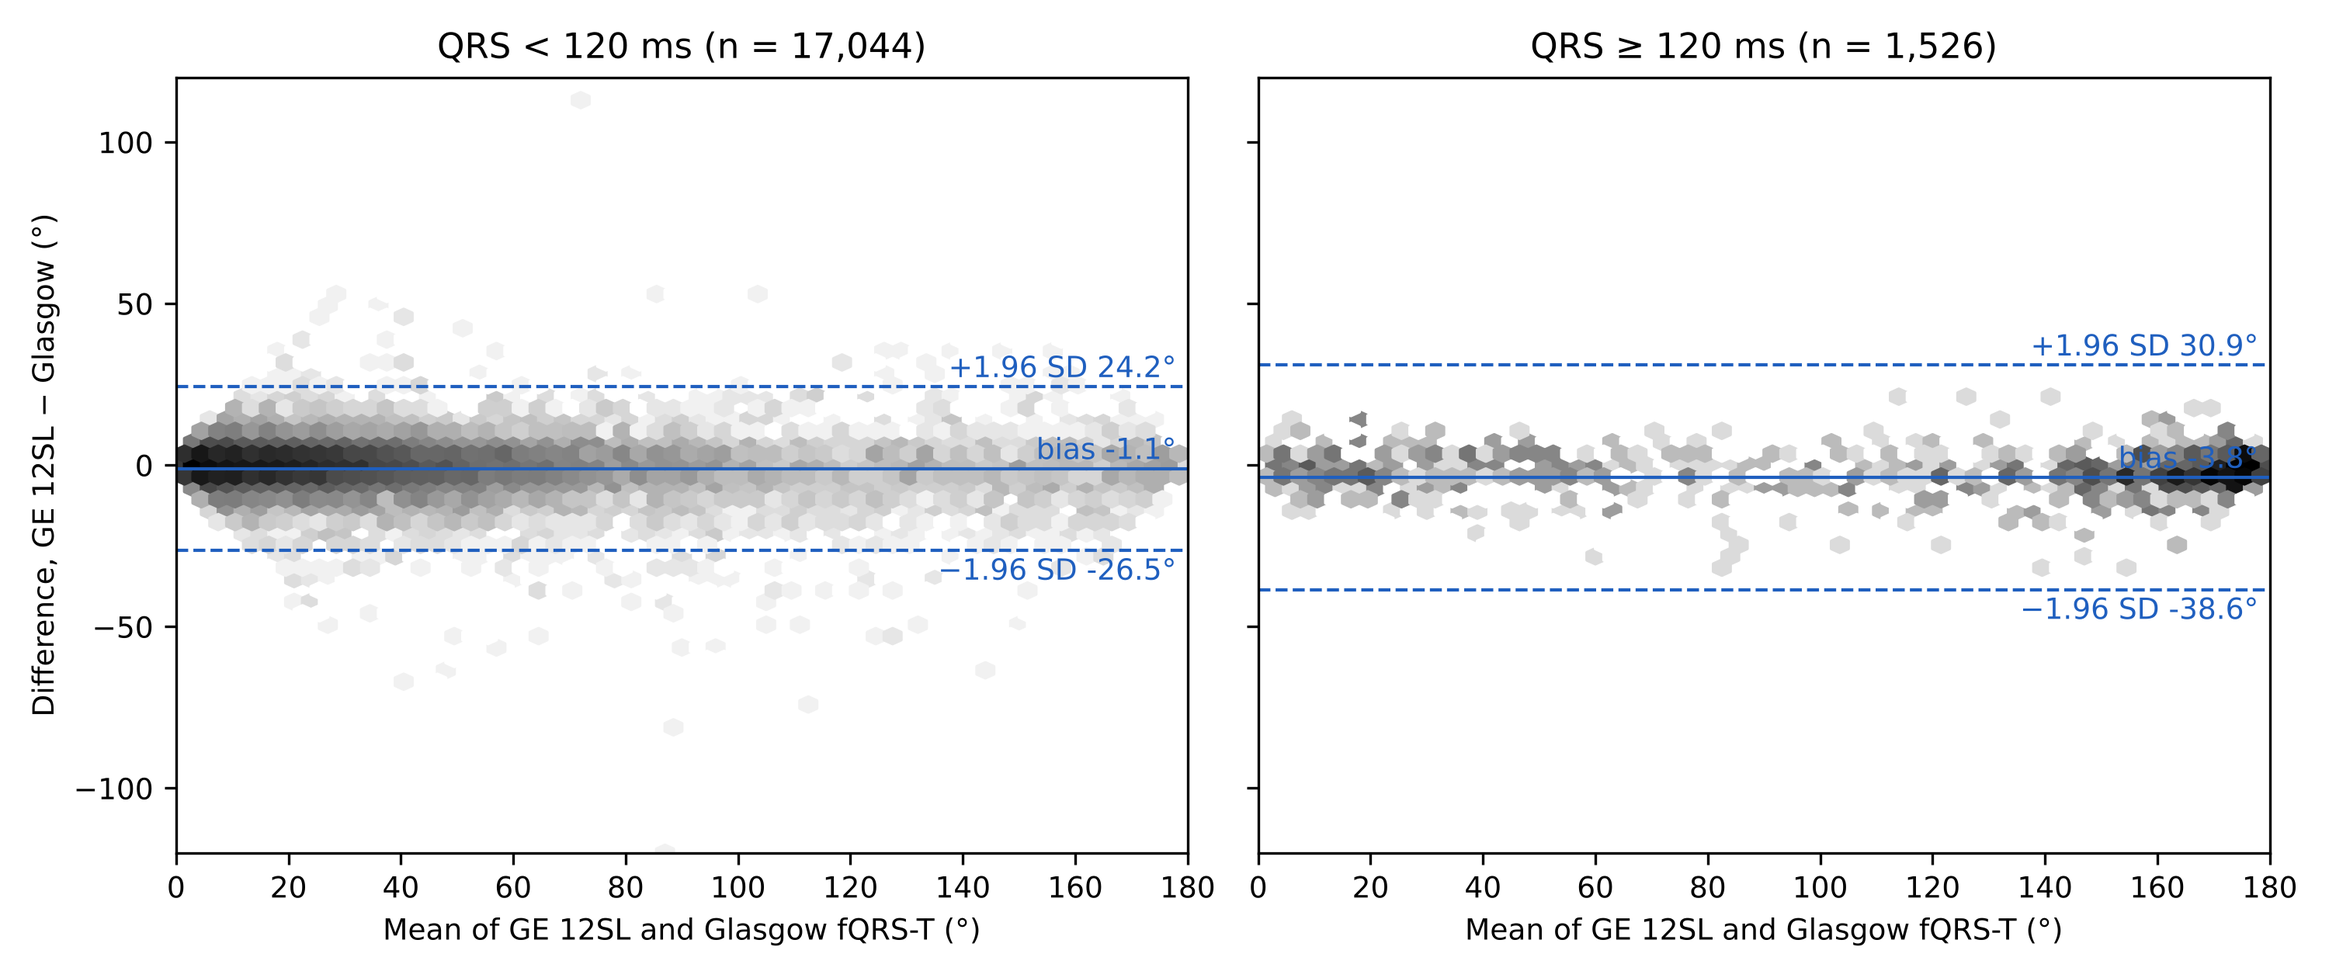
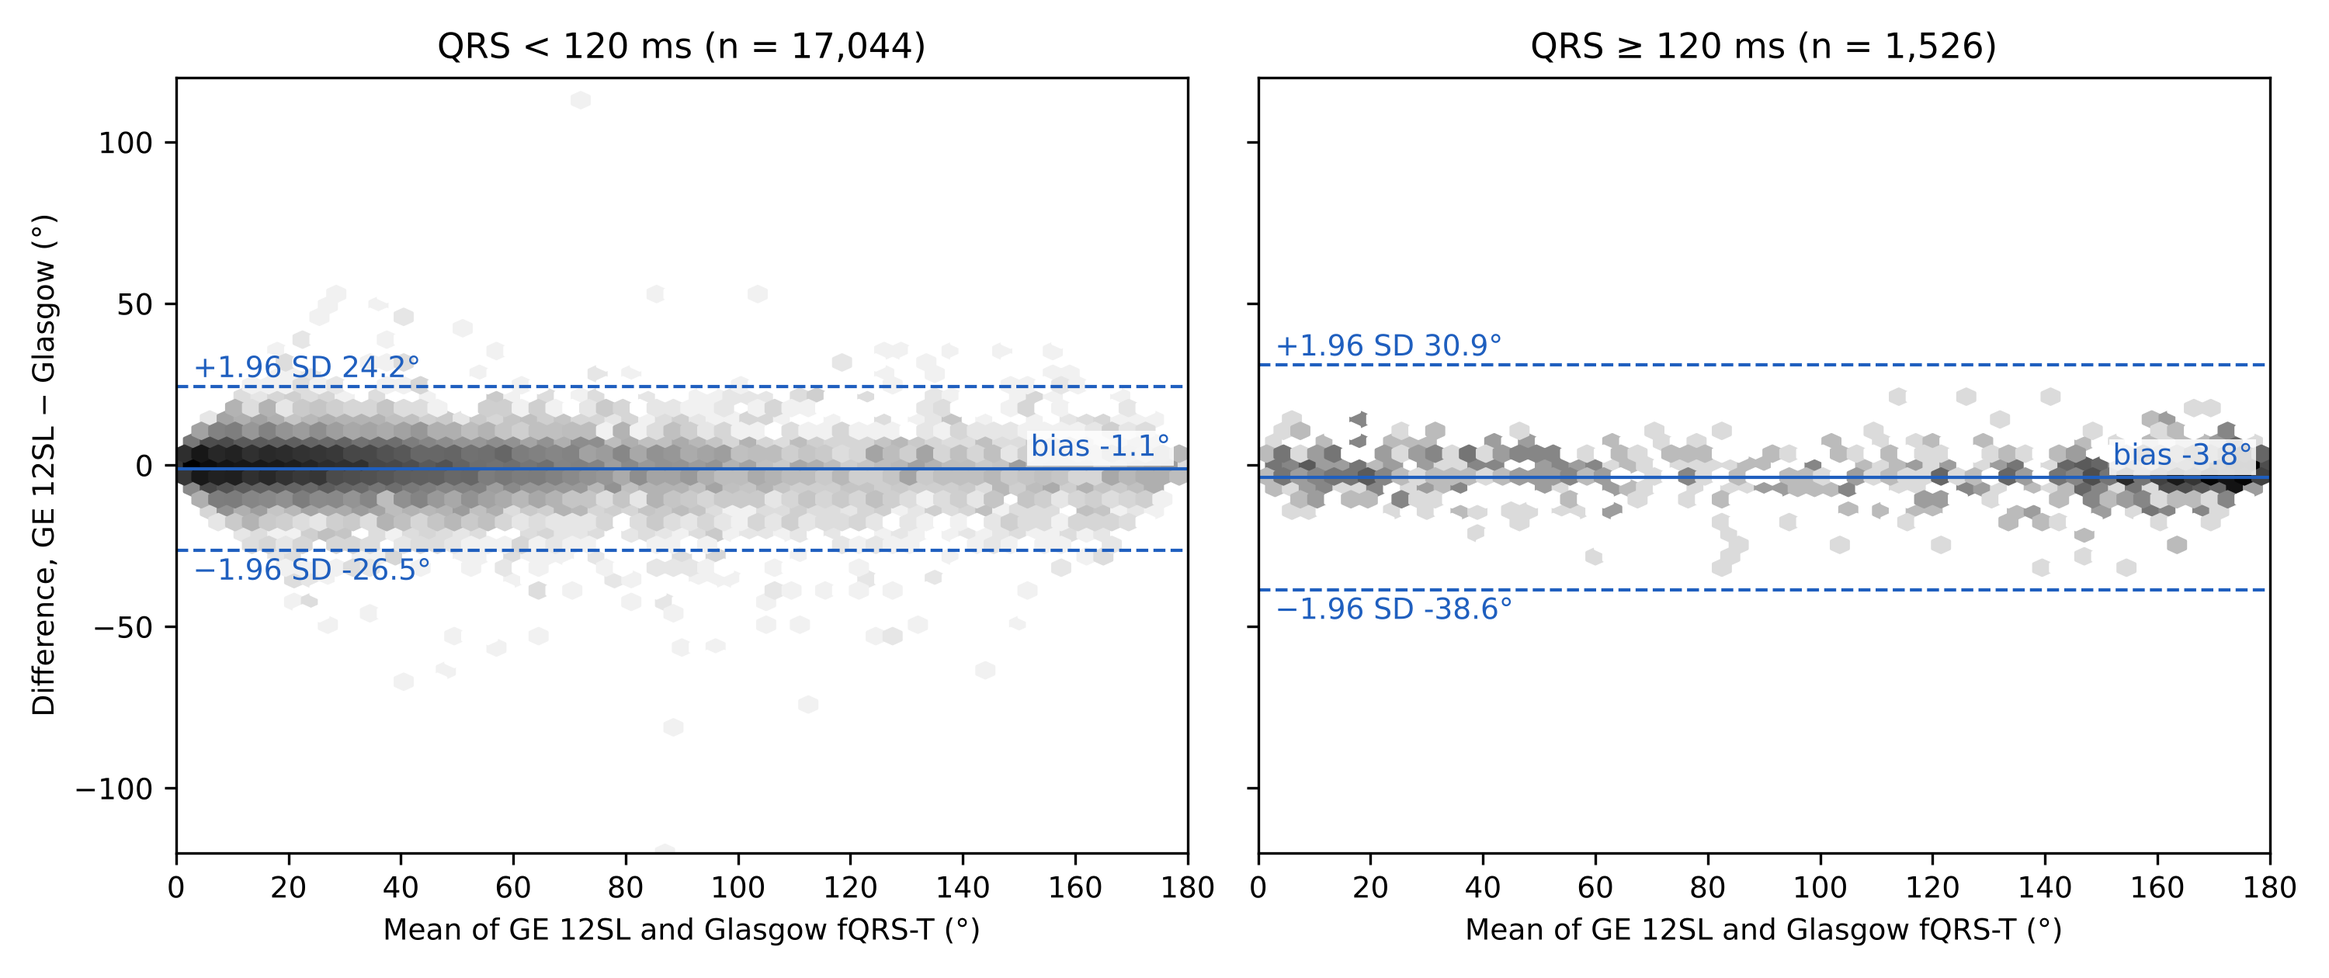
Add reference-limit figure and manuscript table builder; tidy Bland-Altman labels
Claude-Session: https://claude.ai/code/session_01AKCtRtYWpcoA2c2RQM2yxA

diff --git a/scripts/02_make_manuscript_tables.py b/scripts/02_make_manuscript_tables.py
@@ -1,0 +1,121 @@
+"""Builds the manuscript tables (markdown) directly from the result CSVs.
+Usage: python3 -I make_tables.py <results_dir> <out_md>"""
+import sys, re, pandas as pd
+
+O, OUT = sys.argv[1], sys.argv[2]
+
+
+def nums(s):
+    s = re.sub(r"np\.float64\(", "", str(s))
+    return [float(x) for x in re.findall(r"-?\d+(?:\.\d+)?(?:e-?\d+)?", s)]
+
+
+def neg(x, d=1):
+    """Format with a true minus sign."""
+    return f"{x:.{d}f}".replace("-", "−")
+
+
+f1 = lambda v: f"{v:.1f}"
+out = []
+
+# ---- Table 1
+t1 = pd.read_csv(f"{O}/table1_cohort.csv", index_col=0)
+cols = ["All", "NORM only", "Any pathology"]
+row = lambda lbl, fn: "| " + lbl + " | " + " | ".join(fn(t1.loc[c]) for c in cols) + " |"
+out += ["**Table 1.** Characteristics of the primary cohort (first eligible ECG per patient).", "",
+        "| Characteristic | All | Normal ECG only | Any abnormality |", "|---|---|---|---|",
+        row("n", lambda r: f"{int(r.n):,}"),
+        row("Age, years, median (IQR)*", lambda r: f"{r.age_median:.0f} ({nums(r.age_iqr)[0]:.0f}–{nums(r.age_iqr)[1]:.0f})"),
+        row("Women, %", lambda r: f1(r.female_pct)),
+        row("Report validated by a second cardiologist, %", lambda r: f1(r.validated_pct)),
+        row("Myocardial infarction (MI), %", lambda r: f1(r.MI_pct)),
+        row("ST/T change (STTC), %", lambda r: f1(r.STTC_pct)),
+        row("Hypertrophy (HYP), %", lambda r: f1(r.HYP_pct)),
+        row("Conduction disturbance (CD), %", lambda r: f1(r.CD_pct)),
+        row("Atrial fibrillation or flutter, %", lambda r: f1(r.afib_pct)),
+        row("Complete bundle branch block, %", lambda r: f1(r.bbb_pct)),
+        row("Any signal quality flag, %", lambda r: f1(r.noise_pct)),
+        row("QRS duration, ms, median†", lambda r: f"{r.qrsd_ge_median:.0f}"),
+        row("Heart rate, beats/min, median†", lambda r: f"{r.hr_ge_median:.0f}"),
+        row("QTc, ms, median†", lambda r: f"{r.qtc_ge_median:.0f}"),
+        "", "*Ages above 89 years are masked in PTB-XL and were excluded from age summaries. †12SL measurements. "
+        "Superclasses are not mutually exclusive; 71 ECGs had no diagnostic superclass.", ""]
+
+# ---- Table 2
+t2 = pd.read_csv(f"{O}/table2_fqrst_agreement.csv", index_col=0)
+names = {"Primary (first ECG per patient)": "Primary cohort", "QRS < 120 ms": "QRS < 120 ms", "QRS >= 120 ms": "QRS ≥ 120 ms",
+         "Sinus/no AF": "No AF/flutter", "AF/flutter": "AF/flutter", "No noise flags": "No quality flag",
+         "Noise flagged": "Quality flag present", "Human-validated labels": "Validated reports",
+         "All ECGs (incl. repeats)": "All ECGs incl. repeats", "Limb low voltage (GE)": "Limb-lead low voltage*",
+         "Normal voltage (GE)": "Normal limb voltage*"}
+out += ["**Table 2.** Agreement between GE 12SL and Glasgow (Uni-G) on the frontal QRS-T angle.", "",
+        "| Group | n | Bias, ° (95% CI) | 95% LoA, ° | Difference > 30°, % | CCC | Weighted κ, 3 categories | Reclassified, % | κ at 90° | AC1 at 90° |",
+        "|---|---|---|---|---|---|---|---|---|---|"]
+for k, v in names.items():
+    r = t2.loc[k]; ci = nums(r.bias_ci); lo = nums(r.loa)
+    out.append(f"| {v} | {int(r.n):,} | {neg(r.bias)} ({neg(ci[0])} to {neg(ci[1])}) | {neg(lo[0])} to {neg(lo[1])} | "
+               f"{r.pct_absdiff_gt30:.1f} | {r.ccc:.2f} | {r.wkappa3:.2f} | {r.reclass_pct:.1f} | {r.gt90_kappa:.2f} | {r.gt90_ac1:.2f} |")
+out += ["", "Bias = mean of 12SL minus Uni-G. Difference > 30° = absolute between-program difference. Categories: ≤45°, >45° to ≤90°, >90°. "
+        "LoA, limits of agreement; CCC, Lin's concordance correlation coefficient; AF, atrial fibrillation. *By 12SL.", ""]
+
+# ---- Table 3
+t3 = pd.read_csv(f"{O}/table3_low_voltage.csv")
+dn = {"lv_limb": "Limb leads (all six < 0.5 mV)", "lv_prec": "Precordial leads (all six < 1.0 mV)",
+      "lv_comb": "Limb and precordial", "lv_any": "Limb or precordial", "12SL LOWV statement": "12SL LOWV statement"}
+cmp = {"GE vs Glasgow": "12SL vs Uni-G", "GE vs cardiologist LVOLT": "12SL vs LVOLT", "GL vs cardiologist LVOLT": "Uni-G vs LVOLT",
+       "12SL statement vs cardiologist LVOLT": "Statement vs LVOLT", "12SL statement vs GE limb measurement": "Statement vs 12SL limb measurement"}
+out += ["**Table 3.** Low QRS voltage: agreement between programs and with the cardiologists' LVOLT statement (n = 18,570; LVOLT in 162).", "",
+        "| Definition | Comparison | Prevalence, % | κ | AC1 | Sensitivity, % (95% CI) | PPV, % (95% CI) |", "|---|---|---|---|---|---|---|"]
+for _, r in t3.iterrows():
+    prev = f"{r.prev_ge:.2f} / {r.prev_gl:.2f}" if pd.notna(r.prev_ge) else "–"
+    if isinstance(r.get("sens"), str):
+        s, pv = nums(r.sens), nums(r.ppv)
+        sens = f"{100*s[0]:.1f} ({100*s[1]:.1f}–{100*s[2]:.1f})"; ppv = f"{100*pv[0]:.1f} ({100*pv[1]:.1f}–{100*pv[2]:.1f})"
+    else:
+        sens = ppv = "–"
+    out.append(f"| {dn[r['def']]} | {cmp[r.comparison]} | {prev} | {r.kappa:.2f} | {r.ac1:.2f} | {sens} | {ppv} |")
+out += ["", "Prevalence is shown as 12SL / Uni-G for program comparisons. Sensitivity and PPV use the LVOLT statement as reference. "
+        "AC1, Gwet's first-order agreement coefficient; PPV, positive predictive value.", ""]
+
+# ---- Table 4 (ROC)
+t5 = pd.read_csv(f"{O}/table5_roc.csv")
+out += ["**Table 4.** Diagnostic value of the frontal QRS-T angle against ECGs labelled only as normal (n = 8,286).", "",
+        "| Comparison | Cases, n | AUC 12SL (95% CI) | AUC Uni-G (95% CI) | P (DeLong) | Youden cut-off, ° | Sens/spec at Youden, % | Sens/spec at 90°, % |",
+        "|---|---|---|---|---|---|---|---|"]
+for _, r in t5.iterrows():
+    a, b, p = nums(r.ci_ge), nums(r.ci_gl), r.p_delong
+    ps = "< 0.001" if p < 0.001 else f"{p:.3f}"
+    out.append(f"| {r.comparison.replace(' vs NORM only', '')} | {int(r.n_cases):,} | {r.auc_ge:.3f} ({a[0]:.3f}–{a[1]:.3f}) | "
+               f"{r.auc_gl:.3f} ({b[0]:.3f}–{b[1]:.3f}) | {ps} | {r.youden_thr_ge:.0f} | {100*r.sens_at_youden:.1f} / {100*r.spec_at_youden:.1f} | "
+               f"{100*r.sens_at_90_ge:.1f} / {100*r.spec_at_90_ge:.1f} |")
+out += ["", "Cut-offs, sensitivity (sens) and specificity (spec) refer to 12SL. Any pathology = at least one abnormal diagnostic superclass.", ""]
+
+# ---- Table 5 (reference)
+t6 = pd.read_csv(f"{O}/table6_reference_values.csv")
+order = ["18-29", "30-39", "40-49", "50-59", "60-69", "70-79", ">=80", "all"]
+out += ["**Table 5.** Frontal QRS-T angle (°) in healthy adults by age group and sex: median (2.5th–97.5th percentile).", "",
+        "| Age, years | Sex | n | 12SL | Uni-G |", "|---|---|---|---|---|"]
+for a in order:
+    for sx in ["M", "F"]:
+        g = t6[(t6.age == a) & (t6.sex == sx) & (t6.alg == "GE")].iloc[0]
+        u = t6[(t6.age == a) & (t6.sex == sx) & (t6.alg == "GL")].iloc[0]
+        mark = "*" if bool(g.provisional_n_lt_120) else ""
+        al = {"all": "All ages", ">=80": "≥80"}.get(a, a.replace("-", "–"))
+        out.append(f"| {al} | {'Men' if sx == 'M' else 'Women'} | {int(g.n):,}{mark} | {g['median']:.0f} ({g['p2.5']:.0f}–{g['p97.5']:.0f}) | "
+                   f"{u['median']:.0f} ({u['p2.5']:.0f}–{u['p97.5']:.0f}) |")
+out += ["", "Healthy adults: age ≥ 18 years, ECG labelled only as normal, report validated by a second cardiologist, no atrial fibrillation or flutter "
+        "and no signal quality flag (n = 5,471). Nonparametric percentiles. *Below the CLSI EP28-A3c minimum of 120 per partition; provisional.", ""]
+
+# ---- Supplementary S1
+t4 = pd.read_csv(f"{O}/table4_discordance_predictors.csv", index_col=0)
+lab = {"age10": "Age (per 10 years)", "female": "Female sex", "qrsd10": "QRS duration (per 10 ms)", "hr10": "Heart rate (per 10 beats/min)",
+       "bbb": "Complete bundle branch block", "afib": "Atrial fibrillation or flutter", "lv_limb_ge": "Limb-lead low voltage",
+       "noise": "Any signal quality flag", "MI": "Myocardial infarction", "HYP": "Hypertrophy"}
+out += ["**Supplementary Table S1.** Predictors of a between-program difference in the frontal QRS-T angle above 30° "
+        "(multivariable logistic regression; 593 events among 18,324 ECGs).", "", "| Variable | OR (95% CI) | P |", "|---|---|---|"]
+for k, v in lab.items():
+    r = t4.loc[k]; ps = "< 0.001" if r.p < 0.001 else f"{r.p:.3f}"
+    out.append(f"| {v} | {r.OR:.2f} ({r.lo:.2f}–{r.hi:.2f}) | {ps} |")
+out.append("")
+open(OUT, "w", encoding="utf-8").write("\n".join(out))
+print("\n".join(out))

diff --git a/scripts/01_analysis_paper1.py b/scripts/01_analysis_paper1.py
@@ -229,9 +229,9 @@ for ax, (lab, sub) in zip(axs, [("QRS < 120 ms", x[x.qrsd_ge < 120]), ("QRS ≥ 
     b, s = d_.mean(), d_.std(ddof=1)
     for yv, ls in [(b, "-"), (b - 1.96 * s, "--"), (b + 1.96 * s, "--")]:
         ax.axhline(yv, color="#1f5fbf", ls=ls, lw=1)
-    ax.text(178, b + 1.96 * s + 3, f"+1.96 SD {b + 1.96 * s:.1f}°", ha="right", color="#1f5fbf")
-    ax.text(178, b - 1.96 * s - 9, f"−1.96 SD {b - 1.96 * s:.1f}°", ha="right", color="#1f5fbf")
-    ax.text(178, b + 3, f"bias {b:.1f}°", ha="right", color="#1f5fbf")
+    ax.text(3, b + 1.96 * s + 3, f"+1.96 SD {b + 1.96 * s:.1f}°", ha="left", color="#1f5fbf")
+    ax.text(3, b - 1.96 * s - 9, f"−1.96 SD {b - 1.96 * s:.1f}°", ha="left", color="#1f5fbf")
+    ax.text(177, b + 4, f"bias {b:.1f}°", ha="right", color="#1f5fbf", bbox=dict(fc="white", ec="none", pad=1, alpha=0.85))
     ax.set_title(f"{lab} (n = {len(sub):,})"); ax.set_xlabel("Mean of GE 12SL and Glasgow fQRS-T (°)"); ax.set_xlim(0, 180); ax.set_ylim(-120, 120)
 axs[0].set_ylabel("Difference, GE 12SL − Glasgow (°)")
 fig.tight_layout(); fig.savefig(f"{O}/fig1_bland_altman.png", dpi=300); plt.close(fig)
@@ -245,6 +245,25 @@ for ax, (name, c) in zip(axs, curves.items()):
     ax.set_xlabel("1 − specificity")
 axs[0].set_ylabel("Sensitivity"); axs[0].legend(frameon=False, loc="lower right")
 fig.tight_layout(); fig.savefig(f"{O}/fig2_roc.png", dpi=300); plt.close(fig)
+
+
+# Figure 3: reference limits by age group and sex
+r6 = T6[T6.age != "all"]
+order = ["18-29", "30-39", "40-49", "50-59", "60-69", "70-79", ">=80"]
+fig, ax = plt.subplots(figsize=(6.5, 4))
+for (alg, sx), col, ls, mk in [(("GE", "M"), "#1f5fbf", "-", "o"), (("GE", "F"), "#1f5fbf", "--", "s"),
+                               (("GL", "M"), "#888888", "-", "o"), (("GL", "F"), "#888888", "--", "s")]:
+    d = r6[(r6.alg == alg) & (r6.sex == sx)].set_index("age").reindex(order)
+    ax.plot(range(len(order)), d["p97.5"], color=col, ls=ls, marker=mk, ms=4, lw=1.2,
+            label=f"{'GE 12SL' if alg == 'GE' else 'Glasgow'}, {'men' if sx == 'M' else 'women'}")
+    prov = d.provisional_n_lt_120.fillna(False).values.astype(bool)
+    if prov.any():
+        ax.plot(np.arange(len(order))[prov], d["p97.5"].values[prov], ls="none", marker=mk, ms=7, mfc="white", mec=col)
+ax.axhline(90, color="#cc3333", lw=0.8, ls=":"); ax.text(6, 91.5, "90° cut-off", color="#cc3333", fontsize=8, ha="right")
+ax.set_xticks(range(len(order))); ax.set_xticklabels([o.replace(">=", "≥") for o in order])
+ax.set_xlabel("Age group (years)"); ax.set_ylabel("97.5th percentile of frontal QRS-T angle (°)")
+ax.set_ylim(40, 100); ax.legend(frameon=False, fontsize=8, loc="lower right")
+fig.tight_layout(); fig.savefig(f"{O}/fig3_reference_limits.png", dpi=300); plt.close(fig)
 
 # ---------------- dump ----------------
 def clean(o):

diff --git a/results/manuscript_tables.md b/results/manuscript_tables.md
@@ -1,0 +1,109 @@
+**Table 1.** Characteristics of the primary cohort (first eligible ECG per patient).
+
+| Characteristic | All | Normal ECG only | Any abnormality |
+|---|---|---|---|
+| n | 18,570 | 8,286 | 10,213 |
+| Age, years, median (IQR)* | 61 (49–72) | 53 (40–65) | 66 (57–75) |
+| Women, % | 49.1 | 55.2 | 44.2 |
+| Report validated by a second cardiologist, % | 76.8 | 83.7 | 71.3 |
+| Myocardial infarction (MI), % | 23.7 | 0.0 | 43.2 |
+| ST/T change (STTC), % | 23.0 | 0.0 | 41.9 |
+| Hypertrophy (HYP), % | 12.0 | 0.0 | 21.8 |
+| Conduction disturbance (CD), % | 22.0 | 0.0 | 39.9 |
+| Atrial fibrillation or flutter, % | 6.3 | 0.4 | 10.7 |
+| Complete bundle branch block, % | 4.6 | 0.0 | 8.4 |
+| Any signal quality flag, % | 22.1 | 21.0 | 23.0 |
+| QRS duration, ms, median† | 92 | 90 | 96 |
+| Heart rate, beats/min, median† | 71 | 69 | 73 |
+| QTc, ms, median† | 429 | 422 | 437 |
+
+*Ages above 89 years are masked in PTB-XL and were excluded from age summaries. †12SL measurements. Superclasses are not mutually exclusive; 71 ECGs had no diagnostic superclass.
+
+**Table 2.** Agreement between GE 12SL and Glasgow (Uni-G) on the frontal QRS-T angle.
+
+| Group | n | Bias, ° (95% CI) | 95% LoA, ° | Difference > 30°, % | CCC | Weighted κ, 3 categories | Reclassified, % | κ at 90° | AC1 at 90° |
+|---|---|---|---|---|---|---|---|---|---|
+| Primary cohort | 18,570 | −1.3 (−1.5 to −1.1) | −27.6 to 24.9 | 3.3 | 0.96 | 0.89 | 8.2 | 0.89 | 0.95 |
+| QRS < 120 ms | 17,044 | −1.1 (−1.3 to −0.9) | −26.5 to 24.2 | 3.1 | 0.95 | 0.88 | 8.1 | 0.88 | 0.96 |
+| QRS ≥ 120 ms | 1,526 | −3.8 (−4.7 to −2.9) | −38.6 to 30.9 | 5.8 | 0.95 | 0.88 | 8.8 | 0.90 | 0.90 |
+| No AF/flutter | 17,398 | −1.2 (−1.4 to −1.0) | −25.5 to 23.1 | 2.7 | 0.96 | 0.89 | 7.7 | 0.89 | 0.96 |
+| AF/flutter | 1,172 | −3.4 (−4.8 to −2.3) | −49.9 to 43.1 | 12.8 | 0.92 | 0.82 | 15.0 | 0.82 | 0.82 |
+| No quality flag | 14,462 | −1.3 (−1.5 to −1.1) | −26.3 to 23.8 | 2.9 | 0.96 | 0.89 | 7.9 | 0.90 | 0.96 |
+| Quality flag present | 4,108 | −1.5 (−2.0 to −1.0) | −31.7 to 28.7 | 4.6 | 0.95 | 0.87 | 9.2 | 0.87 | 0.94 |
+| Validated reports | 14,256 | −1.0 (−1.2 to −0.8) | −26.3 to 24.3 | 3.0 | 0.96 | 0.89 | 7.9 | 0.89 | 0.96 |
+| All ECGs incl. repeats | 21,390 | −1.4 (−1.5 to −1.2) | −29.4 to 26.6 | 3.6 | 0.96 | 0.89 | 8.5 | 0.89 | 0.95 |
+| Limb-lead low voltage* | 240 | −0.7 (−3.6 to 2.7) | −50.8 to 49.4 | 11.7 | 0.88 | 0.81 | 15.4 | 0.81 | 0.85 |
+| Normal limb voltage* | 18,330 | −1.3 (−1.6 to −1.2) | −27.2 to 24.5 | 3.2 | 0.96 | 0.89 | 8.1 | 0.89 | 0.96 |
+
+Bias = mean of 12SL minus Uni-G. Difference > 30° = absolute between-program difference. Categories: ≤45°, >45° to ≤90°, >90°. LoA, limits of agreement; CCC, Lin's concordance correlation coefficient; AF, atrial fibrillation. *By 12SL.
+
+**Table 3.** Low QRS voltage: agreement between programs and with the cardiologists' LVOLT statement (n = 18,570; LVOLT in 162).
+
+| Definition | Comparison | Prevalence, % | κ | AC1 | Sensitivity, % (95% CI) | PPV, % (95% CI) |
+|---|---|---|---|---|---|---|
+| Limb leads (all six < 0.5 mV) | 12SL vs Uni-G | 1.29 / 1.22 | 0.92 | 1.00 | – | – |
+| Limb leads (all six < 0.5 mV) | 12SL vs LVOLT | – | 0.14 | 0.98 | 17.9 (12.8–24.5) | 12.1 (8.5–16.8) |
+| Limb leads (all six < 0.5 mV) | Uni-G vs LVOLT | – | 0.14 | 0.98 | 17.3 (12.2–23.8) | 12.3 (8.7–17.2) |
+| Precordial leads (all six < 1.0 mV) | 12SL vs Uni-G | 0.87 / 0.83 | 0.90 | 1.00 | – | – |
+| Precordial leads (all six < 1.0 mV) | 12SL vs LVOLT | – | 0.02 | 0.98 | 3.1 (1.3–7.0) | 3.1 (1.3–7.1) |
+| Precordial leads (all six < 1.0 mV) | Uni-G vs LVOLT | – | 0.02 | 0.98 | 2.5 (1.0–6.2) | 2.6 (1.0–6.4) |
+| Limb and precordial | 12SL vs Uni-G | 0.06 / 0.06 | 0.78 | 1.00 | – | – |
+| Limb and precordial | 12SL vs LVOLT | – | 0.02 | 0.99 | 1.2 (0.3–4.4) | 16.7 (4.7–44.8) |
+| Limb and precordial | Uni-G vs LVOLT | – | 0.02 | 0.99 | 1.2 (0.3–4.4) | 18.2 (5.1–47.7) |
+| Limb or precordial | 12SL vs Uni-G | 2.09 / 2.00 | 0.92 | 1.00 | – | – |
+| Limb or precordial | 12SL vs LVOLT | – | 0.11 | 0.97 | 19.8 (14.4–26.6) | 8.2 (5.9–11.4) |
+| Limb or precordial | Uni-G vs LVOLT | – | 0.10 | 0.97 | 18.5 (13.3–25.2) | 8.1 (5.7–11.3) |
+| 12SL LOWV statement | Statement vs LVOLT | – | 0.13 | 0.98 | 19.1 (13.8–25.9) | 11.2 (8.0–15.4) |
+| 12SL LOWV statement | Statement vs 12SL limb measurement | – | 0.73 | 0.99 | – | – |
+
+Prevalence is shown as 12SL / Uni-G for program comparisons. Sensitivity and PPV use the LVOLT statement as reference. AC1, Gwet's first-order agreement coefficient; PPV, positive predictive value.
+
+**Table 4.** Diagnostic value of the frontal QRS-T angle against ECGs labelled only as normal (n = 8,286).
+
+| Comparison | Cases, n | AUC 12SL (95% CI) | AUC Uni-G (95% CI) | P (DeLong) | Youden cut-off, ° | Sens/spec at Youden, % | Sens/spec at 90°, % |
+|---|---|---|---|---|---|---|---|
+| Any pathology | 10,213 | 0.768 (0.762–0.775) | 0.772 (0.766–0.779) | 0.006 | 43 | 58.2 / 86.4 | 31.3 / 99.8 |
+| MI | 4,407 | 0.801 (0.792–0.810) | 0.801 (0.792–0.810) | 0.840 | 46 | 61.9 / 88.7 | 36.3 / 99.8 |
+| STTC | 4,279 | 0.791 (0.782–0.801) | 0.798 (0.789–0.807) | 0.005 | 46 | 59.6 / 88.7 | 36.8 / 99.8 |
+| HYP | 2,223 | 0.810 (0.798–0.822) | 0.812 (0.800–0.825) | 0.277 | 46 | 63.5 / 88.7 | 43.4 / 99.8 |
+| CD | 4,077 | 0.824 (0.815–0.833) | 0.829 (0.820–0.838) | 0.003 | 46 | 66.4 / 88.7 | 41.4 / 99.8 |
+
+Cut-offs, sensitivity (sens) and specificity (spec) refer to 12SL. Any pathology = at least one abnormal diagnostic superclass.
+
+**Table 5.** Frontal QRS-T angle (°) in healthy adults by age group and sex: median (2.5th–97.5th percentile).
+
+| Age, years | Sex | n | 12SL | Uni-G |
+|---|---|---|---|---|
+| 18–29 | Men | 227 | 22 (2–57) | 24 (1–59) |
+| 18–29 | Women | 370 | 21 (2–60) | 22 (1–58) |
+| 30–39 | Men | 314 | 18 (1–59) | 18 (1–63) |
+| 30–39 | Women | 337 | 19 (1–56) | 18 (1–55) |
+| 40–49 | Men | 434 | 16 (1–61) | 16 (1–63) |
+| 40–49 | Women | 545 | 16 (1–57) | 16 (1–57) |
+| 50–59 | Men | 524 | 17 (1–66) | 17 (1–67) |
+| 50–59 | Women | 609 | 16 (1–60) | 15 (0–60) |
+| 60–69 | Men | 489 | 22 (1–68) | 20 (1–69) |
+| 60–69 | Women | 590 | 19 (1–73) | 19 (1–68) |
+| 70–79 | Men | 266 | 23 (2–76) | 24 (1–81) |
+| 70–79 | Women | 488 | 26 (1–78) | 25 (1–78) |
+| ≥80 | Men | 98* | 20 (1–77) | 20 (2–82) |
+| ≥80 | Women | 180 | 33 (2–85) | 33 (2–81) |
+| All ages | Men | 2,352 | 19 (1–67) | 19 (1–69) |
+| All ages | Women | 3,119 | 19 (1–69) | 19 (1–68) |
+
+Healthy adults: age ≥ 18 years, ECG labelled only as normal, report validated by a second cardiologist, no atrial fibrillation or flutter and no signal quality flag (n = 5,471). Nonparametric percentiles. *Below the CLSI EP28-A3c minimum of 120 per partition; provisional.
+
+**Supplementary Table S1.** Predictors of a between-program difference in the frontal QRS-T angle above 30° (multivariable logistic regression; 593 events among 18,324 ECGs).
+
+| Variable | OR (95% CI) | P |
+|---|---|---|
+| Age (per 10 years) | 1.34 (1.26–1.43) | < 0.001 |
+| Female sex | 0.83 (0.70–1.00) | 0.047 |
+| QRS duration (per 10 ms) | 1.03 (0.97–1.10) | 0.322 |
+| Heart rate (per 10 beats/min) | 1.14 (1.10–1.19) | < 0.001 |
+| Complete bundle branch block | 1.14 (0.73–1.76) | 0.569 |
+| Atrial fibrillation or flutter | 2.72 (2.18–3.40) | < 0.001 |
+| Limb-lead low voltage | 1.94 (1.26–3.00) | 0.003 |
+| Any signal quality flag | 1.56 (1.30–1.87) | < 0.001 |
+| Myocardial infarction | 1.72 (1.44–2.05) | < 0.001 |
+| Hypertrophy | 1.56 (1.26–1.94) | < 0.001 |

diff --git a/README.md b/README.md
@@ -17,6 +17,7 @@ Both datasets are open on PhysioNet under CC BY 4.0. They are not stored in this
 pip install -r requirements.txt
 bash scripts/00_download_data.sh          # about 220 MB into data/
 python scripts/01_analysis_paper1.py data results
+python scripts/02_make_manuscript_tables.py results results/manuscript_tables.md
 ```
 
 The script writes these files to `results/`:
@@ -29,7 +30,7 @@ The script writes these files to `results/`:
 | `table4_discordance_predictors.csv` | Logistic regression for a between-program difference above 30° |
 | `table5_roc.csv` | ROC analysis with DeLong comparison |
 | `table6_reference_values.csv` | Age- and sex-specific percentiles in healthy adults |
-| `fig1_bland_altman.png`, `fig2_roc.png` | Figures |
+| `fig1_bland_altman.png`, `fig2_roc.png`, `fig3_reference_limits.png` | Figures |
 | `key_results.json` | Patient flow and summary statistics |
 
 Bootstrap steps use a fixed seed (2026), so reruns give identical numbers.
